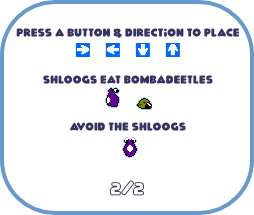
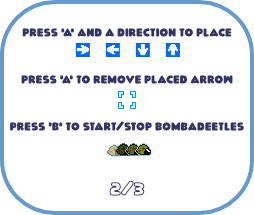
Instructions update
Added clearer indicator for stage select
Added addition instructions on removing arrows
Added instructions on holes
Added instructions on stop start
Fixed navigation in instructions

diff --git a/main/modes/games/Bombadeetle/bombadeetle.c b/main/modes/games/Bombadeetle/bombadeetle.c
@@ -117,6 +117,10 @@ static const cnfsFileIdx_t bombadeetleShloogSprite[] = {
     BOMB_SHLOOG_101_WSG, BOMB_SHLOOG_102_WSG, BOMB_SHLOOG_103_WSG, BOMB_SHLOOG_201_WSG, BOMB_SHLOOG_202_WSG, BOMB_SHLOOG_203_WSG, BOMB_SHLOOG_301_WSG, BOMB_SHLOOG_302_WSG, BOMB_SHLOOG_303_WSG,
 };
 
+static const cnfsFileIdx_t bombadeetleInstructions[] = {BOMB_INSTRUCTIONS_1_WSG, BOMB_INSTRUCTIONS_2_WSG, BOMB_INSTRUCTIONS_3_WSG,
+
+};
+
 static const cnfsFileIdx_t bombadeetleGoal[] = {
     BOMB_GOAL_001_WSG, BOMB_GOAL_002_WSG, BOMB_GOAL_003_WSG, BOMB_GOAL_004_WSG, BOMB_GOAL_005_WSG, BOMB_GOAL_006_WSG,
 };
@@ -244,6 +248,7 @@ typedef struct
     wsg_t* bombadeetleSprites;
     wsg_t* shloogSprites;
     wsg_t* teleporterSprites;
+    wsg_t* instructionsPages;
     wsg_t* goal;
     wsg_t backgroundTile;
     wsg_t success;
@@ -257,8 +262,6 @@ typedef struct
     wsg_t stageActiveSelectButton;
     wsg_t pausedBackground;
     wsg_t levelNameBackground;
-    wsg_t instructions1;
-    wsg_t instructions2;
     wsg_t tools;
     wsg_t collisionSprite;
     wsg_t holeSprite;
@@ -373,9 +376,6 @@ static void bombadeetleEnterMode()
     loadWsg(BOMB_MAIN_SELECT_WSG, &bombadeetle->mainSelect, true);
     loadWsg(BOMB_MAIN_OPTIONS_WSG, &bombadeetle->mainOptions, true);
 
-    loadWsg(BOMB_INSTRUCTIONS_1_WSG, &bombadeetle->instructions1, true);
-    loadWsg(BOMB_INSTRUCTIONS_2_WSG, &bombadeetle->instructions2, true);
-
     loadWsg(BOMB_PAUSED_WSG, &bombadeetle->pausedBackground, true);
     loadWsg(BOMB_LEVEL_NAME_WSG, &bombadeetle->levelNameBackground, true);
     loadWsg(BOMB_TOOLS_WSG, &bombadeetle->tools, true);
@@ -398,6 +398,12 @@ static void bombadeetleEnterMode()
     for (int idx = 0; idx < ARRAY_SIZE(bombadeetleTeleporter); idx++)
     {
         loadWsg(bombadeetleTeleporter[idx], &bombadeetle->teleporterSprites[idx], true);
+    }
+
+    bombadeetle->instructionsPages = heap_caps_calloc(ARRAY_SIZE(bombadeetleInstructions), sizeof(wsg_t), MALLOC_CAP_8BIT);
+    for (int idx = 0; idx <ARRAY_SIZE(bombadeetleInstructions); idx++)
+    {
+        loadWsg(bombadeetleInstructions[idx], &bombadeetle->instructionsPages[idx], true);
     }
 
     bombadeetle->cursor = heap_caps_calloc(ARRAY_SIZE(bombadeetleCursor), sizeof(wsg_t), MALLOC_CAP_8BIT);
@@ -1128,10 +1134,19 @@ static void bombadeetleInstructionsLoop(int64_t elapsedUs)
                 bombadeetle->state = bombadeetle->lastState;
             }
 
-            if (evt.button & PB_LEFT || evt.button & PB_RIGHT)
+            if (evt.button & PB_LEFT)
+            {
+                bombadeetle->instructionsPage--;
+                if(bombadeetle->instructionsPage < 0)
+                {
+                    bombadeetle->instructionsPage = ARRAY_SIZE(bombadeetleInstructions) - 1;
+                }
+            }
+
+            if (evt.button & PB_RIGHT || evt.button & PB_A)
             {
                 bombadeetle->instructionsPage++;
-                bombadeetle->instructionsPage %= 2;
+                bombadeetle->instructionsPage %= ARRAY_SIZE(bombadeetleInstructions);
             }
         }
 
@@ -1139,14 +1154,7 @@ static void bombadeetleInstructionsLoop(int64_t elapsedUs)
 
     bombadeetleDrawBackground();
     
-    if (bombadeetle->instructionsPage == 0)
-    {
-        drawWsgSimple(&bombadeetle->instructions1, 15, 15);
-    }
-    else
-    {
-        drawWsgSimple(&bombadeetle->instructions2, 15, 15);
-    }
+    drawWsgSimple(&bombadeetle->instructionsPages[bombadeetle->instructionsPage], 15, 15);
 }
 
 static void bombadeetleStageSelectLoop(int64_t elapsedUs)
@@ -2049,6 +2057,11 @@ static void bombadeetleExitMode()
     {
         freeWsg(&bombadeetle->background.tiles[idx]);
     }
+
+    for (int idx = 0; idx < ARRAY_SIZE(bombadeetleInstructions); idx++)
+    {
+        freeWsg(&bombadeetle->instructionsPages[idx]);
+    }
     
     
     freeWsg(bombadeetle->shloogSprites);
@@ -2060,9 +2073,7 @@ static void bombadeetleExitMode()
     freeWsg(bombadeetle->teleporterSprites);
     freeWsg(bombadeetle->arrows);
     freeWsg(bombadeetle->background.tiles);
-
-    freeWsg(&bombadeetle->instructions1);
-    freeWsg(&bombadeetle->instructions2);
+    freeWsg(bombadeetle->instructionsPages);
     freeWsg(&bombadeetle->pausedBackground);
     
     freeWsg(&bombadeetle->mainSelect);
